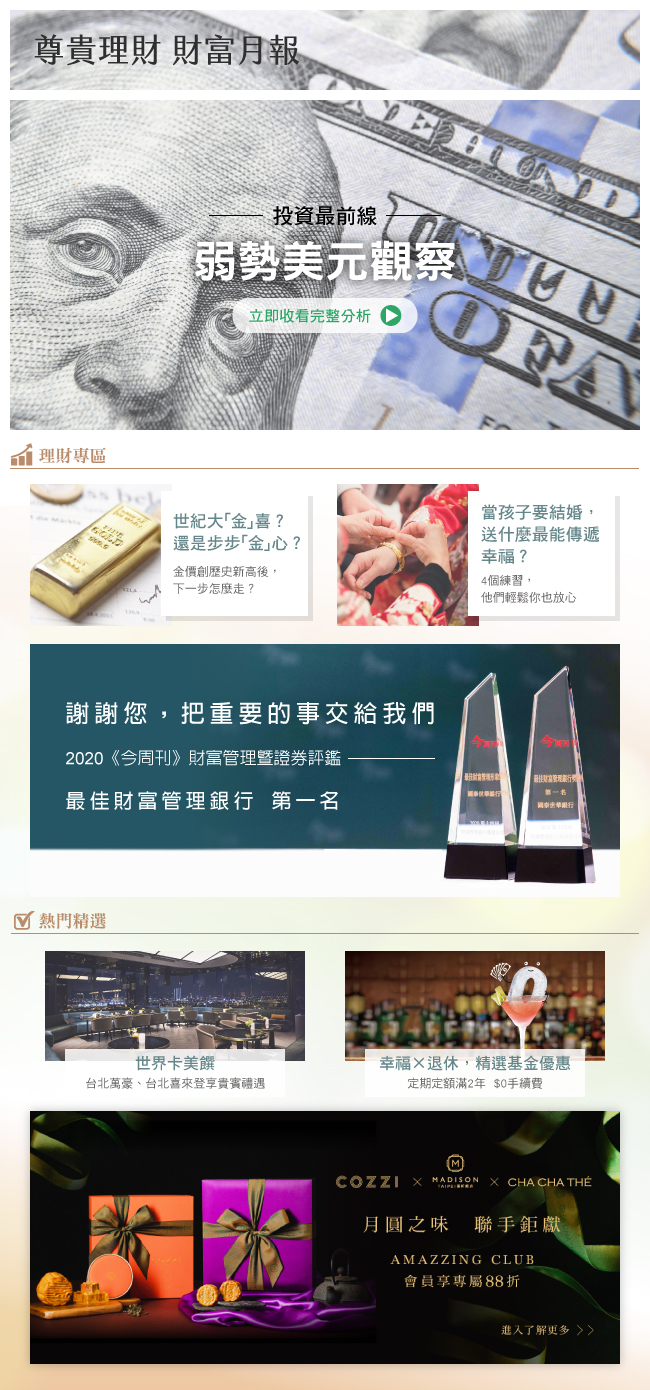
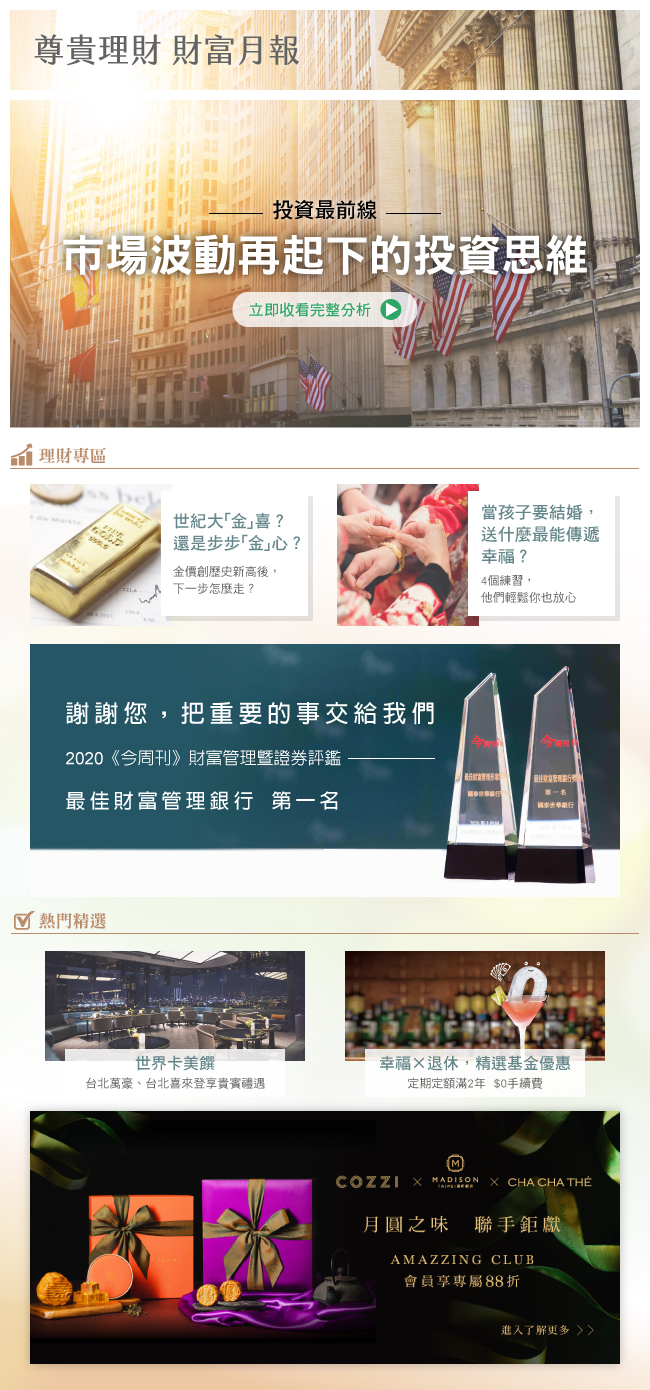
update

Changed region(s): [[0.0, 0.0, 0.9846, 0.3094]]

diff --git a/monthly-report-202009New/index.html b/monthly-report-202009New/index.html
@@ -389,13 +389,13 @@ font-family:'Microsoft JhengHei',Arial,'微軟正黑體', sans-serif;
 </center>
 
 <map name="Map">
-  <area shape="rect" coords="10,90,470,370" href="https://youtu.be/JVf7BH1TOks?CUB_SRC=EDM&CUB_CHL1=URL&CUB_CHL2=01&MA_TK=WS133&CUB_DT=20200822" target="_blank" alt="-投資最前線-全球股漲勢中的潛藏風險">
+  <area shape="rect" coords="9,90,469,370" href="https://youtu.be/LESbmj10lBs?CUB_SRC=EDM&CUB_CHL1=URL&CUB_CHL2=01&MA_TK=WS134&CUB_DT=20200926" target="_blank" alt="-投資最前線-市場波動再起下的投資思維">
   <area shape="rect" coords="19,410,461,540" href="https://www.cathaybk.com.tw/cathaybk/personal/wealth/market/report/monthly-topic/202009?CUB_SRC=EDM&CUB_CHL1=URL&CUB_CHL2=01&MA_TK=WS134&CUB_DT=20200926" target="_blank" alt="世紀大「金」喜？ 還是步步「金」心？">
   <area shape="rect" coords="20,549,460,678" href="http://cathaybk.com.tw/cathaybk/personal/wealth/articles/list/experienced/22?CUB_SRC=EDM&CUB_CHL1=URL&CUB_CHL2=01&MA_TK=WS134&CUB_DT=20200926" target="_blank" alt="當孩子要結婚，送什麼最能傳遞幸福？">
   <area shape="rect" coords="20,1000,230,1176" href="https://www.cathaybk.com.tw/cathaybk/personal/credit-card/cards/intro/world/?CUB_SRC=EDM&CUB_CHL1=URL&CUB_CHL2=01&MA_TK=WS134&CUB_DT=20200926#tab-02" target="_blank" alt="世界卡美饌">
-  <area shape="rect" coords="249,1000,461,1176" href="https://fund.cathaybk.org.tw/?CUB_SRC=EDM&CUB_CHL1=URL&CUB_CHL2=01&MA_TK=WS134&CUB_DT=20200926" target="_blank" alt="幸福 X 退休，精選基金優惠">
+  <area shape="rect" coords="249,1000,461,1176" href="https://fund.cathaybk.org.tw/?CUB_SRC=EDM&CUB_CHL1=URL&CUB_CHL2=01&MA_TK=WS134&CUB_DT=20200926" target="_blank" alt="幸福X退休，精選基金優惠">
   <area shape="rect" coords="10,695,471,956" href="https://www.cathaybk.com.tw/cathaybk/personal/wealth/news/news12/?CUB_SRC=EDM&CUB_CHL1=URL&CUB_CHL2=01&MA_TK=WS134&CUB_DT=20200926" alt="2020《今周刊》財富管理評鑑 榮獲 最佳財富管理銀行 第一名">
-  <area shape="rect" coords="10,1188,470,1449" href="https://www.amazzingclub.com/promotion/活動｜「和逸飯店-x-cha-cha-the-掬月禮盒」-月圓之味-聯手鉅獻?CUB_SRC=EDM&CUB_CHL1=URL&CUB_CHL2=01&MA_TK=WS134&CUB_DT=20200926" target="_blank" alt="國泰飯店事 中秋月餅禮盒">
+  <area shape="rect" coords="10,1188,470,1449" href="https://www.amazzingclub.com/promotion/活動｜「和逸飯店-x-cha-cha-the-掬月禮盒」-月圓之味-聯手鉅獻?CUB_SRC=EDM&CUB_CHL1=URL&CUB_CHL2=01&MA_TK=WS134&CUB_DT=20200926" target="_blank" alt="國泰飯店事業 中秋月餅禮盒">
   <area shape="circle" coords="370,1508,29" href="https://www.facebook.com/cathayunitedbank?CUB_SRC=EDM&CUB_CHL1=URL&CUB_CHL2=01&MA_TK=WS134&CUB_DT=20200926" target="_blank" alt="國泰世華＊Enrich Your Life＊">
   <area shape="circle" coords="432,1507,29" href="https://line.me/R/ti/p/@cathaybank?CUB_SRC=EDM&CUB_CHL1=URL&CUB_CHL2=01&MA_TK=WS134&CUB_DT=20200926" target="_blank" alt="透過行動條碼加入LINE好友">
 </map>

diff --git a/monthly-report-202009/index.html b/monthly-report-202009/index.html
@@ -103,10 +103,10 @@
   </tbody>
 </table>
 <map name="Map">
-  <area shape="rect" coords="10,100,640,430" href="https://youtu.be/JVf7BH1TOks?CUB_SRC=EDM&CUB_CHL1=URL&CUB_CHL2=01&MA_TK=WS133&CUB_DT=20200822" target="_blank" alt="-投資最前線-全球股漲勢中的潛藏風險">
+  <area shape="rect" coords="10,100,640,430" href="https://youtu.be/LESbmj10lBs?CUB_SRC=EDM&CUB_CHL1=URL&CUB_CHL2=01&MA_TK=WS134&CUB_DT=20200926" target="_blank" alt="-投資最前線-市場波動再起下的投資思維">
   <area shape="rect" coords="30,483,314,626" href="https://www.cathaybk.com.tw/cathaybk/personal/wealth/market/report/monthly-topic/202009?CUB_SRC=EDM&CUB_CHL1=URL&CUB_CHL2=01&MA_TK=WS134&CUB_DT=20200926" target="_blank" alt="世紀大「金」喜？ 還是步步「金」心？">
   <area shape="rect" coords="336,482,622,626" href="http://cathaybk.com.tw/cathaybk/personal/wealth/articles/list/experienced/22?CUB_SRC=EDM&CUB_CHL1=URL&CUB_CHL2=01&MA_TK=WS134&CUB_DT=20200926" target="_blank" alt="當孩子要結婚，送什麼最能傳遞幸福？">
-  <area shape="rect" coords="28,1110,620,1365" href="https://www.amazzingclub.com/promotion/活動｜「和逸飯店-x-cha-cha-the-掬月禮盒」-月圓之味-聯手鉅獻?CUB_SRC=EDM&CUB_CHL1=URL&CUB_CHL2=01&MA_TK=WS134&CUB_DT=20200926" target="_blank" alt="國泰飯店事 中秋月餅禮盒">
+  <area shape="rect" coords="28,1110,620,1365" href="https://www.amazzingclub.com/promotion/活動｜「和逸飯店-x-cha-cha-the-掬月禮盒」-月圓之味-聯手鉅獻?CUB_SRC=EDM&CUB_CHL1=URL&CUB_CHL2=01&MA_TK=WS134&CUB_DT=20200926" target="_blank" alt="國泰飯店事業 中秋月餅禮盒">
   <area shape="rect" coords="345,950,606,1098" href="https://fund.cathaybk.org.tw/?CUB_SRC=EDM&CUB_CHL1=URL&CUB_CHL2=01&MA_TK=WS134&CUB_DT=20200926" target="_blank" alt="幸福 X 退休，精選基金優惠">
   <area shape="rect" coords="45,951,306,1098" href="https://www.cathaybk.com.tw/cathaybk/personal/credit-card/cards/intro/world/?CUB_SRC=EDM&CUB_CHL1=URL&CUB_CHL2=01&MA_TK=WS134&CUB_DT=20200926#tab-02" target="_blank" alt="世界卡美饌">
   <area shape="rect" coords="29,643,622,897" href="https://www.cathaybk.com.tw/cathaybk/personal/wealth/news/news12/?CUB_SRC=EDM&CUB_CHL1=URL&CUB_CHL2=01&MA_TK=WS134&CUB_DT=20200926" target="_blank" alt="2020《今周刊》財富管理評鑑 榮獲 最佳財富管理銀行 第一名">
